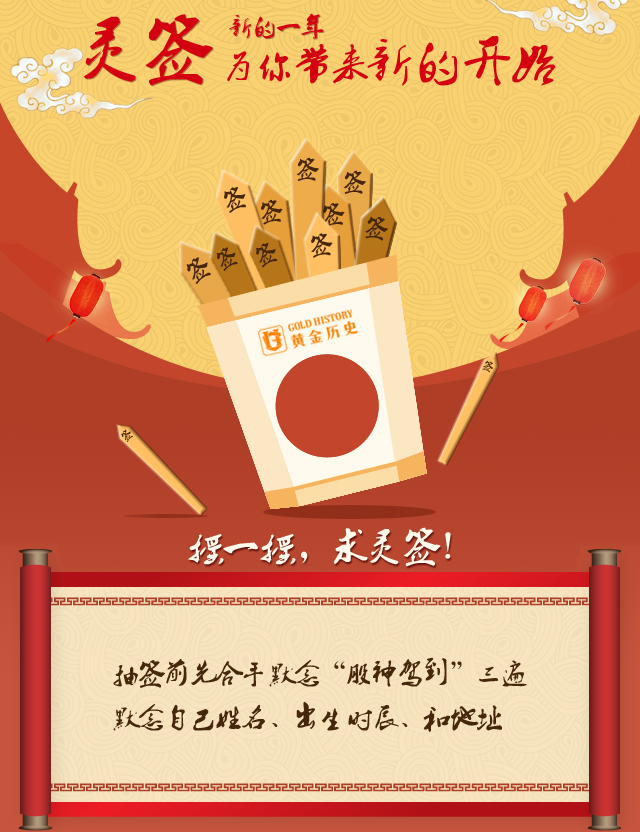
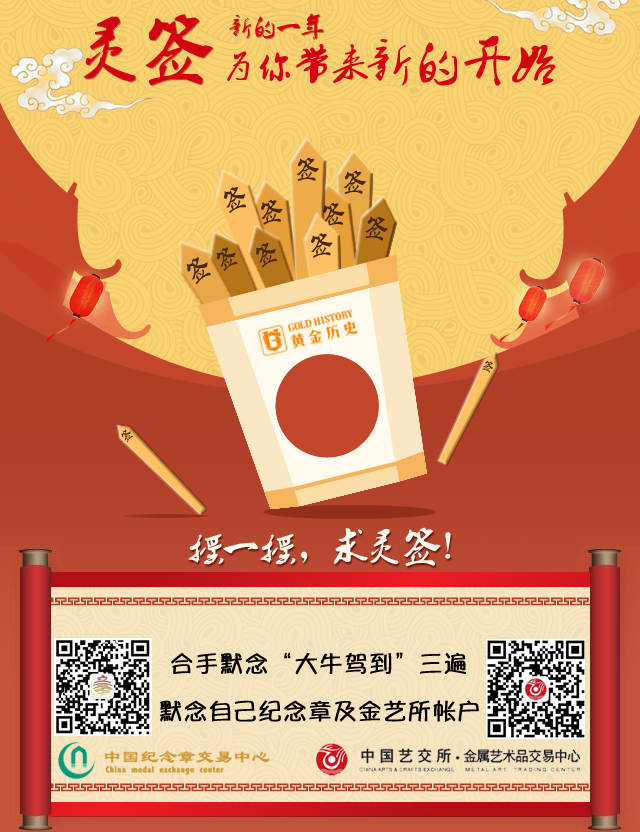
qrcode click

Changed region(s): [[0.0625, 0.7188, 0.9375, 0.9688], [0.0312, 0.9688, 0.0938, 1.0], [0.9375, 0.9688, 0.9688, 1.0]]

diff --git a/app/Public/shake/reel.css b/app/Public/shake/reel.css
@@ -131,7 +131,7 @@ body, .game, .loading, .mainbg {
 .couqian {
   text-align: center;
   overflow: hidden;
-  background-image: url(wei_bg.png);
+  background-image: url(wei_bg_i6__.png);
   background-position: center top;
   background-repeat: no-repeat;
   background-size: 100%;
@@ -379,3 +379,82 @@ body, .game, .loading, .mainbg {
 .reel-txt {
   font-size: 14px;
 }
+
+.wei_qrcodeL{
+  position: absolute;
+  bottom: 50px;
+  left: 8.4375%;
+  width: 15.3125%;
+}
+.wei_qrcodeR{
+  position: absolute;
+  bottom: 50px;
+  right: 8.4375%;
+  width: 15.3125%;
+}
+@media screen and (min-height:416px){     /* 大于等于416px */
+  .wei_qrcodeL{
+    bottom: 53px;
+  }
+  .wei_qrcodeR{
+    bottom: 53px;
+  }
+}
+@media screen and (min-height:480px){
+  .wei_qrcodeL{
+    bottom: 118px;
+  }
+  .wei_qrcodeR{
+    bottom: 118px;
+  }
+}
+@media screen and (min-height:504px){
+  .wei_qrcodeL{
+    bottom: 88px;
+  }
+  .wei_qrcodeR{
+    bottom: 88px;
+  }
+}
+@media screen and (min-height:568px){
+  .wei_qrcodeL{
+    bottom: 151px;
+  }
+  .wei_qrcodeR{
+    bottom: 151px;
+  }
+}
+@media screen and (min-height:603px){
+  .wei_qrcodeL{
+    bottom: 116px;
+  }
+  .wei_qrcodeR{
+    bottom: 116px;
+  }
+}
+@media screen and (min-height:627px){
+  .wei_qrcodeL{
+    bottom: 140px;
+  }
+  .wei_qrcodeR{
+    bottom: 140px;
+  }
+}
+@media screen and (min-height:672px){
+  .wei_qrcodeL{
+    bottom: 136px;
+  }
+  .wei_qrcodeR{
+    bottom: 136px;
+  }
+}
+@media screen and (min-height:736px){
+  .wei_qrcodeL{
+    bottom: 197px;
+  }
+  .wei_qrcodeR{
+    bottom: 197px;
+  }
+}
+
+

diff --git a/app/shake.html b/app/shake.html
@@ -10,7 +10,11 @@
 <body class="main_bg">
 <!-- 游戏开始 -->
 <article class="mainbg">
-  <div class="couqian"><img class="reel-shake" src="Public/shake/wei_shake2.gif" alt=""/></div>
+  <div class="couqian">
+    <img class="reel-shake" src="Public/shake/wei_shake2.gif" alt=""/>
+    <img src="Public/shake/wei_qrcodeL.png" class="wei_qrcodeL"/>
+    <img src="Public/shake/wei_qrcodeR.png" class="wei_qrcodeR"/>
+  </div>
 </article>
 <!-- end 游戏开始 -->
 <!-- 抽签游戏 -->

diff --git a/app/Public/shake/main.js b/app/Public/shake/main.js
@@ -52,7 +52,7 @@
         Min._platform = get_platform();
         if(Min._platform == 'p4'){
           var bg = document.getElementsByClassName("couqian")[0];
-          bg.style.backgroundImage = "url(" + config.imgPre + "shake/wei_bg_ip4.png)";
+          bg.style.backgroundImage = "url(" + config.imgPre + "shake/wei_bg_i4__.png)";
           bg.style.backgroundPosition = "center top";
           bg.style.backgroundRepeat = "no-repeat";
           bg.style.backgroundSize = "100%";
